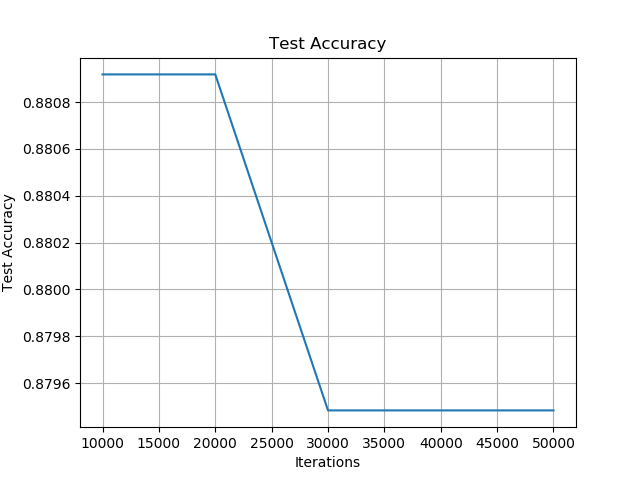
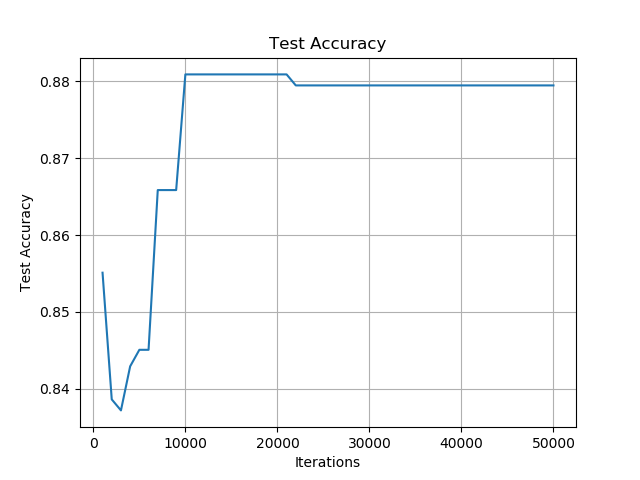
UPDATED: report with one iteration based code.

diff --git a/Assignment1/Code/StartingPoint1.py b/Assignment1/Code/StartingPoint1.py
@@ -67,31 +67,37 @@ model = LogisticRegressionModel.LogisticRegressionModel()
 #w1_vs_iterations = []
 max_iters = 50000
 tic = time.time()
-loss_vs_iters = []
+w1_vs_iters = []
+test_loss_vs_iters = []
 test_accuracy_vs_iters = []
-for iters in [10000, 20000, 30000, 40000, max_iters]:
+training_set_loss_vs_iters = []
+iter_step = 1000
+for i, iters in enumerate([iter_step] * 50):
     fit_tic = time.time()
     model.fit(xTrain, yTrain, iterations=iters, step=0.01)
     fit_toc = time.time() - fit_tic
-    print("Took {} sec. Fitted data with {} iterations".format(fit_toc, iters))
+    iter_cnt = iter_step * (i + 1)
+    print("Took {} sec. Fitted data for {} iterations".format(fit_toc, iter_cnt))
     yTestPredicted = model.predict(xTest)
     test_loss = model.loss(xTest, yTest)
     test_accuracy = EvaluationsStub.Accuracy(yTest, yTestPredicted)
-    print("%d, %f, %f, %f" % (iters, model.weights[1], test_loss, test_accuracy))
-    loss_vs_iters.append((iters, test_loss))
-    test_accuracy_vs_iters.append((iters, test_accuracy))
+    print("%d, %f, %f, %f" % (iter_cnt, model.weights[1], test_loss, test_accuracy))
+    w1_vs_iters.append((iter_cnt, model.weights[1]))
+    test_loss_vs_iters.append((iter_cnt, test_loss))
+    test_accuracy_vs_iters.append((iter_cnt, test_accuracy))
+    training_set_loss_vs_iters.append((iter_cnt, model.training_loss))
 
 w1_png = os.path.join(report_path, 'w1_{}.png'.format(max_iters))
-draw_single_plot(model.w1_vs_iterations, 'Iterations', 'Weight[1]', 'Weight[1]s', w1_png)
+draw_single_plot(w1_vs_iters, 'Iterations', 'Weight[1]', 'Weight[1]s', w1_png)
 
 test_loss_png = os.path.join(report_path, 'test_loss_{}.png'.format(max_iters))
-draw_single_plot(loss_vs_iters, 'Iterations', 'Test loss', 'Test Loss', test_loss_png)
+draw_single_plot(test_loss_vs_iters, 'Iterations', 'Test loss', 'Test Loss', test_loss_png)
 
 test_accuracy_vs_iters_png = os.path.join(report_path, 'test_accuracy_vs_iters_{}.png'.format(max_iters))
 draw_single_plot(test_accuracy_vs_iters, 'Iterations', 'Test Accuracy', 'Test Accuracy', test_accuracy_vs_iters_png)
 
 training_set_loss_png = os.path.join(report_path, 'training_set_loss_{}.png'.format(max_iters))
-draw_single_plot(model.training_set_loss_vs_iterations, 'Iterations', 'Training Set Loss', 'Training Set Loss', training_set_loss_png)
+draw_single_plot(training_set_loss_vs_iters, 'Iterations', 'Training Set Loss', 'Training Set Loss', training_set_loss_png)
 print("++++++++++++++++++++++++++++++++")
 
 statistic_md = os.path.join(report_path, 'statictics.md')
@@ -100,5 +106,5 @@ results = EvaluationsStub.EvaluateAll(yTest, yTestPredicted)
 with open(statistic_md, 'w') as f:
     f.write(results)
     f.writelines("\n")
-    f.writelines("\n{} iterations".format(iters))
+    f.writelines("\n{} iterations".format(max_iters))
     f.writelines("\nTook: {} sec.".format(time.time() - tic))

diff --git a/Assignment1/Code/LogisticRegressionModel.py b/Assignment1/Code/LogisticRegressionModel.py
@@ -10,10 +10,11 @@ class LogisticRegressionModel(object):
         self.threshold = threshold
         self.weights_logs = OrderedDict()
         self.cnt_to_log = cnt_to_log
-        
+        self.weights = [.0, .0, .0, .0, .0]
+        self.training_loss = 0
 
     def fit(self, xTrain, yTrain, iterations, step=0.01):
-        self.weights = [.05, .05, .05, .05, .05]
+        
         self.w1_vs_iterations = []
         self.training_set_loss_vs_iterations = []
         print("Fitting training dataset with {} iteration".format(iterations))
@@ -28,14 +29,16 @@ class LogisticRegressionModel(object):
                 partial_derv_loss = partial_loss / n
                 self.weights[i] = self.weights[i] - step * partial_derv_loss
             
+            training_loss = self.loss_calculator(yTrainPredicted, yTrain)
+                
             if cnt % 10000:
                 self.w1_vs_iterations.append((cnt, self.weights[1]))
             
             if cnt % 1000:
-                training_loss = self.loss_calculator(yTrainPredicted, yTrain)
                 self.training_set_loss_vs_iterations.append((cnt, training_loss))
 
             cnt += 1
+        self.training_loss = training_loss
 
     def loss_calculator(self, yPredicted, ys):
         loss = 0

diff --git a/Assignment1/Code/EvaluationsStub.py b/Assignment1/Code/EvaluationsStub.py
@@ -84,11 +84,11 @@ def ConfusionMatrix(y, yPredicted):
     tp, fp, fn, tn = _cm_calculator(y, yPredicted)
     w = 10
 
-    header = '{}|{}|{}'.format(''.center(w), '1'.center(w), '0'.center(w))
-    splitter = ''.center(w * 3 + 2, '-')
-    yhat1 = '{}|{}|{}'.format('1'.center(w), '(TP) {}'.format(
+    header = '|{}|{}|{}|'.format(''.center(w), '1'.center(w), '0'.center(w))
+    splitter = '|-|-|-|'
+    yhat1 = '|{}|{}|{}|'.format('1'.center(w), '(TP) {}'.format(
         tp).center(w), '(FN) {}'.format(fn).center(w))
-    yhat0 = '{}|{}|{}'.format('0'.center(w), '(FP) {}'.format(
+    yhat0 = '|{}|{}|{}|'.format('0'.center(w), '(FP) {}'.format(
         fp).center(w), '(TN) {}'.format(tn).center(w))
     return '\n'.join([header, splitter, yhat1, yhat0])
 
@@ -104,6 +104,7 @@ def ExecuteAll(y, yPredicted):
 def EvaluateAll(y, yPredicted):
 
     results = "* Statistics: "
+    results += "\n"
     results += "\n{}".format(ConfusionMatrix(y, yPredicted))
     results += "\nAccuracy: {}".format(Accuracy(y, yPredicted))
     results += "\nPrecision: {}".format(Precision(y, yPredicted))

diff --git a/Assignment1/Report/logistic_regression.md b/Assignment1/Report/logistic_regression.md
@@ -31,6 +31,7 @@ Recall: 0.39603960396039606
 FPR: 0.03859060402684564
 FNR: 0.6039603960396039
 
+
 #### Questions.
 * What do these measurements tell you about logistic regression compared to the straw-men?
 
@@ -45,13 +46,13 @@ FNR: 0.6039603960396039
     FPR: 0.06963087248322147
     FNR: 0.16831683168316833
 
-    I used initial weights, [.05, .05, .05, .05, .05] and proved myself that different initial weights makes totoally different graphs over iterations.
+    I used initial zeros weights, [.0, .0, .0, .0, .0], and proved myself that different initial weights makes totoally different graphs over iterations.
 
-    The statistic outputs of logistic regression can can vary depending on the threshold, number of iteration, number of training data. Those configuration determines how fast the loss function can converge and how accurate it can predict output for test data.
+    The statistic outputs of logistic regression can vary depending on the threshold, number of iteration, number of training data. Those configuration determines how fast the loss function can converge and how accurate it can predict output for the given test data.
     
 
 * How did the gradient descent converge?
-  * Weight[1] started from initial value, .05, and converged toward 2.6. The trend became more obvisous starting 20000 iteraions and later. This behavior matches that loss function showing convergence to minimum values near 20000 iterations. 
+  * Weight[1] started from initial value, .0, and converged toward 2.6. The trend became more obvisous starting 20000 iteraions and later. This behavior matches that loss function showing convergence obviously to the minimum values near 20000 iterations. 
 
   
   

diff --git a/Assignment1/Report/statictics.md b/Assignment1/Report/statictics.md
@@ -1,8 +1,9 @@
 * Statistics: 
-          |    1     |    0     
---------------------------------
-    1     | (TP) 80  | (FN) 122 
-    0     | (FP) 46  |(TN) 1146 
+
+|          |    1     |    0     |
+|-|-|-|
+|    1     | (TP) 80  | (FN) 122 |
+|    0     | (FP) 46  |(TN) 1146 |
 Accuracy: 0.8794835007173601
 Precision: 0.6349206349206349
 Recall: 0.39603960396039606
@@ -10,4 +11,4 @@ FPR: 0.03859060402684564
 FNR: 0.6039603960396039
 
 50000 iterations
-Took: 9151.538475036621 sec.
+Took: 7569.8159329891205 sec.
